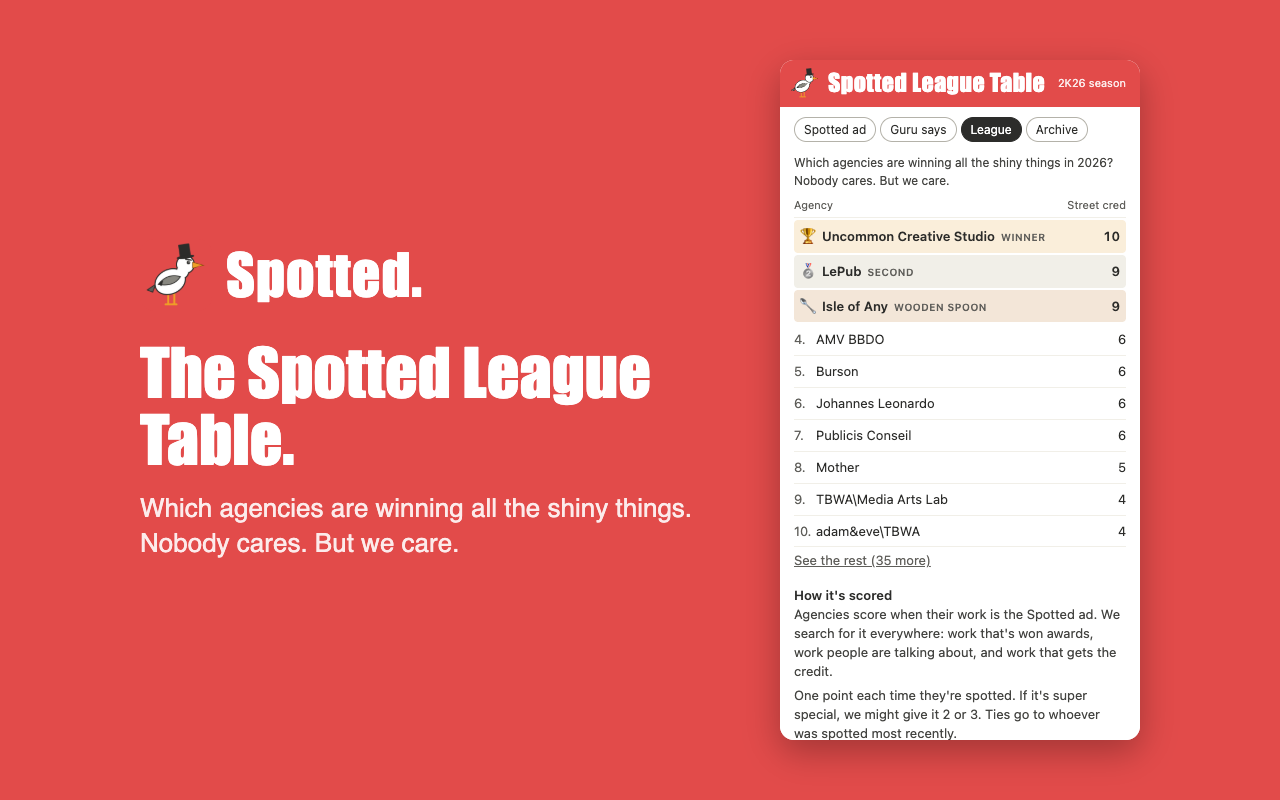
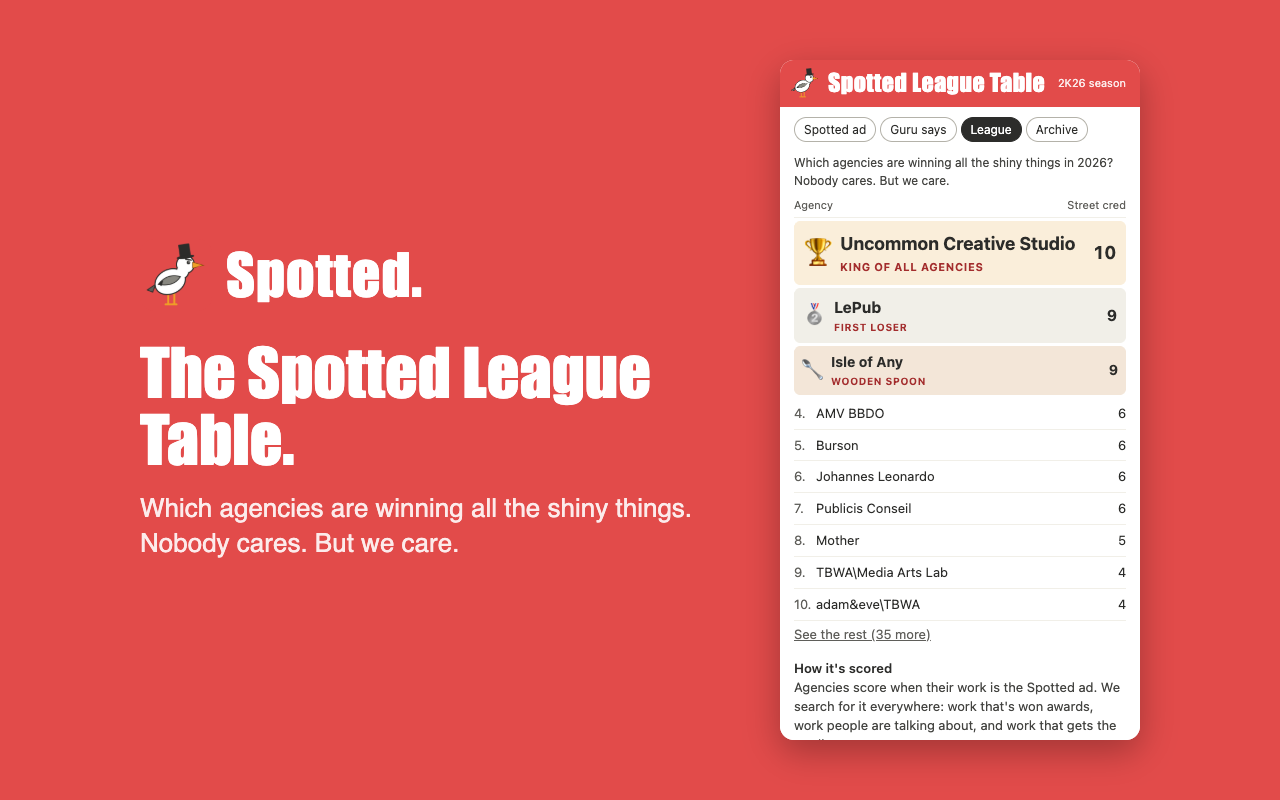
League podium: King of all agencies, First loser, Wooden spoon, sized biggest to smallest

Changed region(s): [[0.5938, 0.375, 0.9062, 0.9375], [0.625, 0.2812, 0.875, 0.3438]]

diff --git a/popup.css b/popup.css
@@ -161,11 +161,19 @@ main { padding: 12px 14px 4px; }
 .league-head { display: flex; justify-content: space-between; font-size: 11px; color: var(--muted); padding-bottom: 4px; border-bottom: 1px solid var(--line-soft); }
 .league-list { list-style: none; margin: 0; padding: 0; }
 .league-list li { display: flex; justify-content: space-between; gap: 10px; padding: 6px 0; border-bottom: 1px solid var(--line-soft); }
-.league-list li.podium { font-weight: 600; padding: 7px 6px; margin: 2px 0; border-bottom: 0; border-radius: 4px; }
-.league-list li.podium-1 { background: #FAEEDA; }
-.league-list li.podium-2 { background: #F1EFE8; }
-.league-list li.podium-3 { background: #F3E6D8; }
-.league-list .podium-label { margin-left: 6px; font-size: 10px; font-weight: 600; text-transform: uppercase; letter-spacing: .5px; color: var(--muted); }
+.league-list li { align-items: center; }
+.league-list .who-row { display: flex; align-items: center; min-width: 0; }
+.league-list .who { display: flex; flex-direction: column; min-width: 0; }
+.league-list li.podium { font-weight: 700; margin: 3px 0; border-bottom: 0; border-radius: 6px; }
+.league-list li.podium .rank { min-width: 0; margin-right: 8px; line-height: 1; }
+.league-list li.podium-1 { background: #FAEEDA; font-size: 18px; padding: 10px 10px; }
+.league-list li.podium-1 .rank { font-size: 28px; }
+.league-list li.podium-2 { background: #F1EFE8; font-size: 15.5px; padding: 8px 9px; }
+.league-list li.podium-2 .rank { font-size: 22px; }
+.league-list li.podium-3 { background: #F3E6D8; font-size: 14px; padding: 6px 8px; }
+.league-list li.podium-3 .rank { font-size: 18px; }
+.league-list .podium-label { font-size: 10px; font-weight: 700; text-transform: uppercase; letter-spacing: .6px; color: var(--red-dark); margin-top: 2px; }
+.league-list li.podium-1 .podium-label { font-size: 11px; }
 .daily-note { margin-top: 14px; }
 .league-list .rank { color: var(--muted); display: inline-block; min-width: 22px; }
 .league-list a { text-decoration: underline; }

diff --git a/popup.js b/popup.js
@@ -117,7 +117,7 @@ function renderGuru() {
 
 /* ---------- Spotted League Table ---------- */
 // Agencies only (in-house brand teams are left out). Top three get a prize.
-const PODIUM = { 1: ['🏆', 'Winner'], 2: ['🥈', 'Second'], 3: ['🥄', 'Wooden spoon'] };
+const PODIUM = { 1: ['🏆', 'King of all agencies'], 2: ['🥈', 'First loser'], 3: ['🥄', 'Wooden spoon'] };
 let showAll = false;
 function renderLeague() {
   const rows = streetCred(DATA.league, DATA.spotlights.spotlights, TODAY);
@@ -128,10 +128,9 @@ function renderLeague() {
     const why = [r.prizes ? `${r.prizes} top prize${r.prizes > 1 ? 's' : ''}` : null, r.features ? `spotted ${r.features}×` : null].filter(Boolean).join(', ');
     const medal = PODIUM[rank];
     return el('li', { title: why, class: medal ? `podium podium-${rank}` : null },
-      el('span', {},
+      el('span', { class: 'who-row' },
         el('span', { class: 'rank' }, medal ? medal[0] : `${rank}.`),
-        r.name,
-        medal ? el('span', { class: 'podium-label' }, medal[1]) : null),
+        el('span', { class: 'who' }, r.name, medal ? el('span', { class: 'podium-label' }, medal[1]) : null)),
       el('span', { class: 'cred' }, r.cred),
     );
   }));

diff --git a/DESIGN.md b/DESIGN.md
@@ -30,7 +30,7 @@ Agreed on 21 Nov 2026, through several rounds of wireframes.
 - Midday (12:00 local) Chrome notification ("Spotted." / "{Brand} by {Agency}"), which can be switched off at the bottom of the popup, plus a yellow dot on the icon until opened.
 - **The gull (23 Nov):** hover the masthead gull and it doubles in size (the "Spotted." title slides right to make room), turns its head and glares (half-closed eye, angry brow). Click it and it squawks (a short synthesised sound, no audio file) with a random annoyed line in a speech bubble: "What do you want?", "I'm on my break.", "Have you got chips?". Weekend lines tell you to go outside.
 - **Guru says:** one quote per day (same for everyone, changes at midnight), with "Your daily dose of wisdom. A new one tomorrow." under the name.
-- **League (23 Nov):** tab "League", header "Spotted League Table". Agencies only (in-house teams left out), no links on names. Top 3: 🏆 winner, 🥈 second, 🥄 wooden spoon, on tinted rows. Ties go to whoever was spotted most recently, so positions are unique and there's always one winner, one second and one spoon. Scored only from Spotted ad picks: 1 point a pick, 2 or 3 for something super special (top Grand Prix or effectiveness winners, or genuinely super dope work with lots of credit). The popup explains the scoring but doesn't list the 2-3 point criteria. Starting points: 3 per 2026 top prize (Cannes GP/Titanium, D&AD Black Pencil, IPA Effectiveness GP, UK Grand Effie), with a "tally has only just begun" note.
+- **League (23 Nov):** tab "League", header "Spotted League Table". Agencies only (in-house teams left out), no links on names. Top 3, biggest first: 🏆 "King of all agencies", 🥈 "First loser", 🥄 "Wooden spoon", on tinted rows that shrink from 1st to 3rd (3rd still bigger than the rest). Ties go to whoever was spotted most recently, so positions are unique and there's always one winner, one second and one spoon. Scored only from Spotted ad picks: 1 point a pick, 2 or 3 for something super special (top Grand Prix or effectiveness winners, or genuinely super dope work with lots of credit). The popup explains the scoring but doesn't list the 2-3 point criteria. Starting points: 3 per 2026 top prize (Cannes GP/Titanium, D&AD Black Pencil, IPA Effectiveness GP, UK Grand Effie), with a "tally has only just begun" note.
 - **Guru says sources:** mainly CMOs, agency leaders, ad/psychology/design authors (Ogilvy, Cialdini, Kahneman, Norman...) and big marketing voices, plus YC founders and tech CEOs. Every quote needs a checked source.
 - **Hover states:** tabs grow slightly and turn pink-red on hover; buttons grow a touch.
 - **Weekly rhythm:** Mon/Wed/Fri fresh, Tue/Thu throwbacks (major-award winners from the last year, label "Throwback Tuesday/Thursday: still slaps", footer "Not new. Won stuff. Deal with it."). No picks or notifications at weekends. Saturday: "Why are you looking at me? It's Saturday. You shouldn't be working, you absolute loser. Go outside." Sunday: "On the seventh day, we rest." Both have a "Fine. Show me Friday's" button.

diff --git a/README.md b/README.md
@@ -82,7 +82,7 @@ The details are in [AUTOMATION.md](AUTOMATION.md).
 
 ## The Spotted League Table (2K26 season)
 
-A cheeky league table of which agencies are winning all the shiny things. Nobody cares. But we care. First place gets a trophy, second a medal, third the wooden spoon.
+A cheeky league table of which agencies are winning all the shiny things. Nobody cares. But we care. First place is crowned King of all agencies, second is the First loser, and third gets the wooden spoon.
 
 **How it's scored:**
 - **It's scored off the Spotted ad.** Agencies score when their work is picked.
